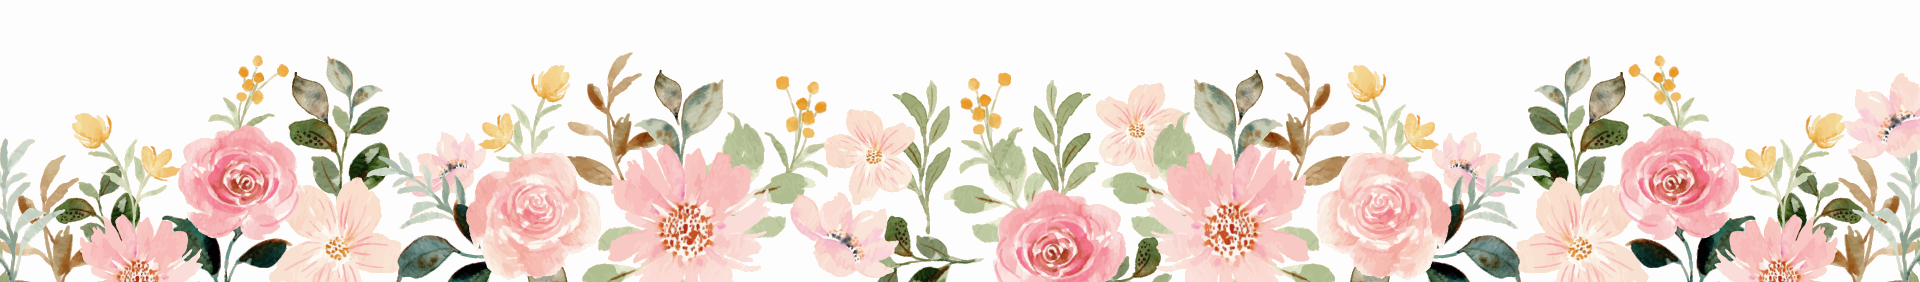
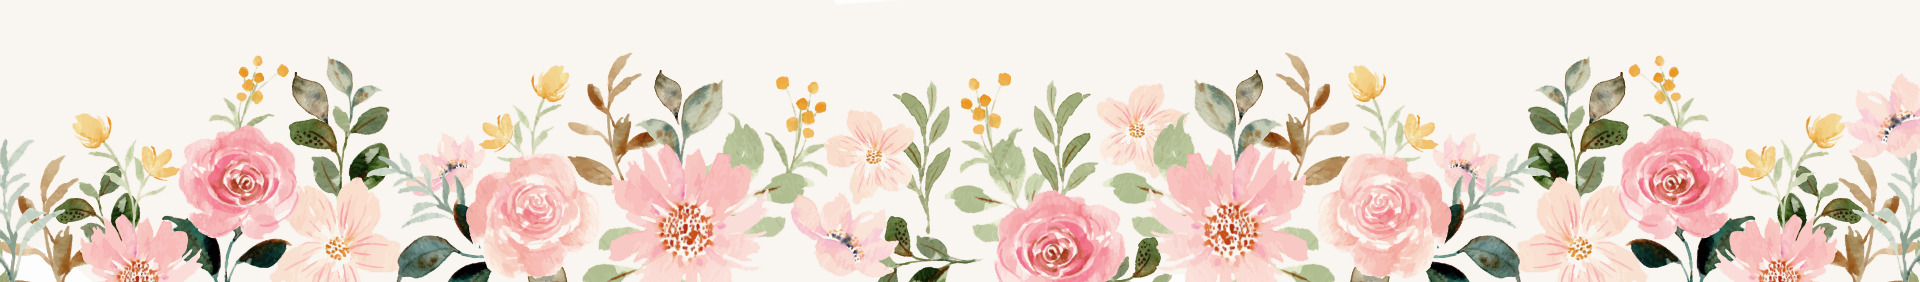
Apply revisions

diff --git a/src/components/Navbar.scss b/src/components/Navbar.scss
@@ -71,7 +71,7 @@
       left: 0;
       right: 0;
       bottom: 0;
-      background-color: rgba(250, 231, 211, 0.85); /* Black background with opacity */
+      background-color: rgba(255, 255, 255, 0.90); /* Black background with opacity */
       z-index: 999; /* Specify a stack order in case you're using a different order for other elements */
       cursor: pointer; /* Add a pointer on hover */
       padding-top: 20px;

diff --git a/src/styles/utilities/variables.scss b/src/styles/utilities/variables.scss
@@ -1,3 +1,3 @@
-$primary-color: #FDFDFD;
+$primary-color: #F9F5F1;
 $secondary-color: #333B20;
 $tertiary-color: #954939;
